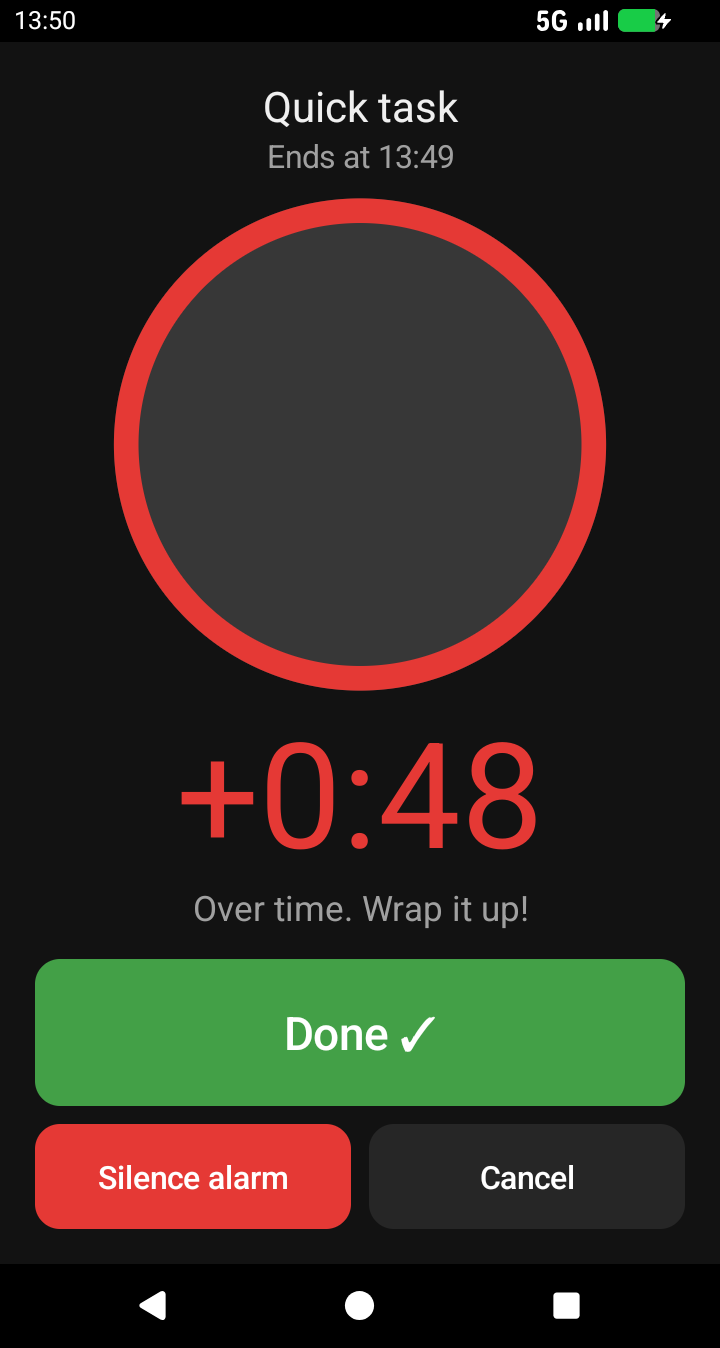
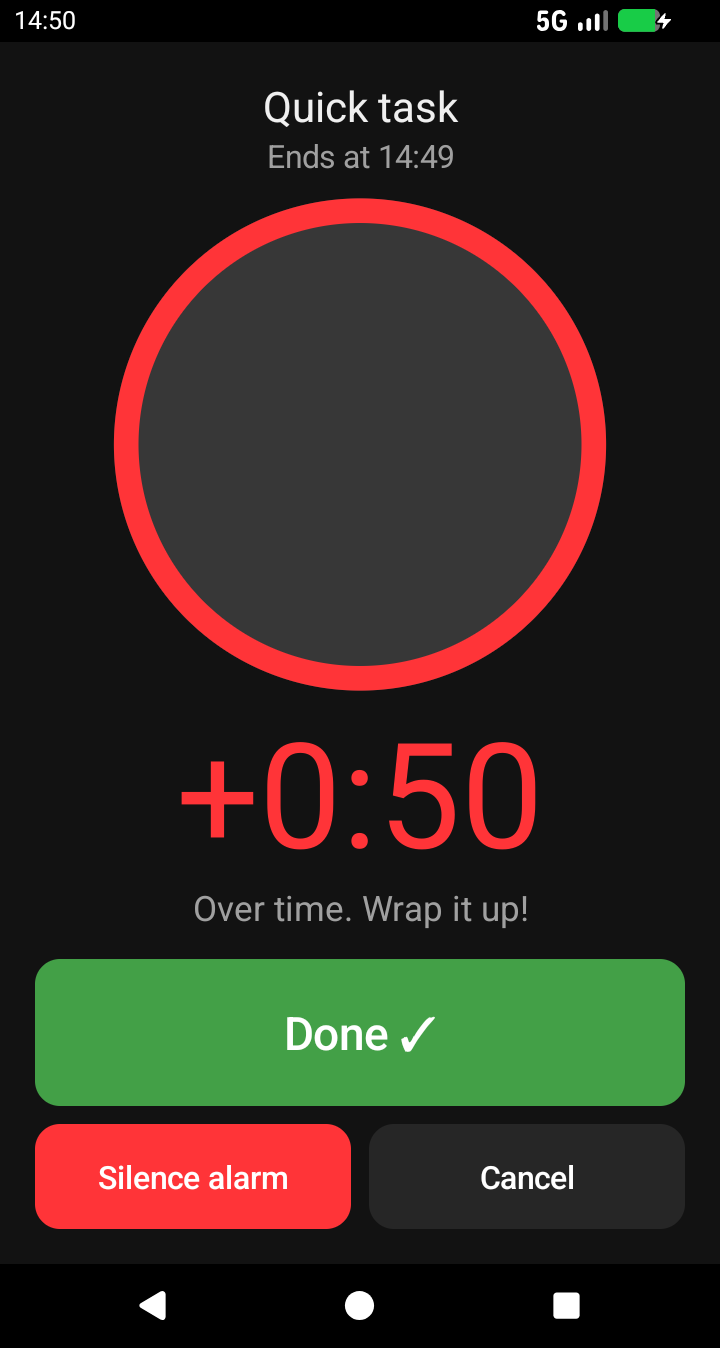
Brand colours for warnings, text fields and dialogs; retake store screenshots (1.3.2)
The over-time screen, Silence alarm, Delete swipe and history use the icon's
red and yellow. A small theme sets colorAccent to the logo orange, so text
fields and dialog buttons are no longer teal. The store screenshots show the
current colours, and the README and store text describe the wedge as yellow,
orange, red.

diff --git a/src/io/github/nikossvnk/timenudge/Ui.java b/src/io/github/nikossvnk/timenudge/Ui.java
@@ -15,13 +15,14 @@ final class Ui {
     static final int TEXT = Color.rgb(240, 240, 240);
     static final int MUTED = Color.rgb(160, 160, 160);
     static final int GREEN = Color.rgb(67, 160, 71);
-    static final int AMBER = Color.rgb(249, 168, 37);
-    static final int RED = Color.rgb(229, 57, 53);
-    static final int ACCENT = Color.rgb(255, 97, 40);  // the logo's orange, #FF6128
+    static final int ACCENT = Color.rgb(255, 97, 40);  // the logo's orange, #FF6128 (also colorAccent in styles.xml)
     // The icon ring's gradient, yellow to orange to red (assets/icon.svg).
     static final int RING_YELLOW = Color.rgb(255, 189, 32);
     static final int RING_ORANGE = Color.rgb(255, 89, 37);
     static final int RING_RED = Color.rgb(255, 52, 56);
+    // Warnings (a bit over, alarm, delete) use the ring's yellow and red too.
+    static final int AMBER = RING_YELLOW;
+    static final int RED = RING_RED;
 
     static int dp(Context c, float v) {
         return Math.round(TypedValue.applyDimension(TypedValue.COMPLEX_UNIT_DIP, v,

diff --git a/README.md b/README.md
@@ -11,7 +11,7 @@ and later; it was built for an old phone that stays at home.
 
 ## What it does
 - Enter minutes (or tap 5/10/15/20/30), tap a preset, or pick **Until a time…**.
-- Full-screen countdown with a shrinking wedge, green → amber → red. Screen stays on.
+- Full-screen countdown with a shrinking wedge that turns from yellow to orange to red. Screen stays on.
 - Spoken alerts at least every 5 minutes, denser toward the end, with more beeps and louder volume
   each time. For 10 minutes: 3, 6, 8, 9 and 9.5 minutes in, then the alarm at 10. Timers over
   15 minutes announce every 5 minutes left, then 2 min, 1 min and 30 s.
